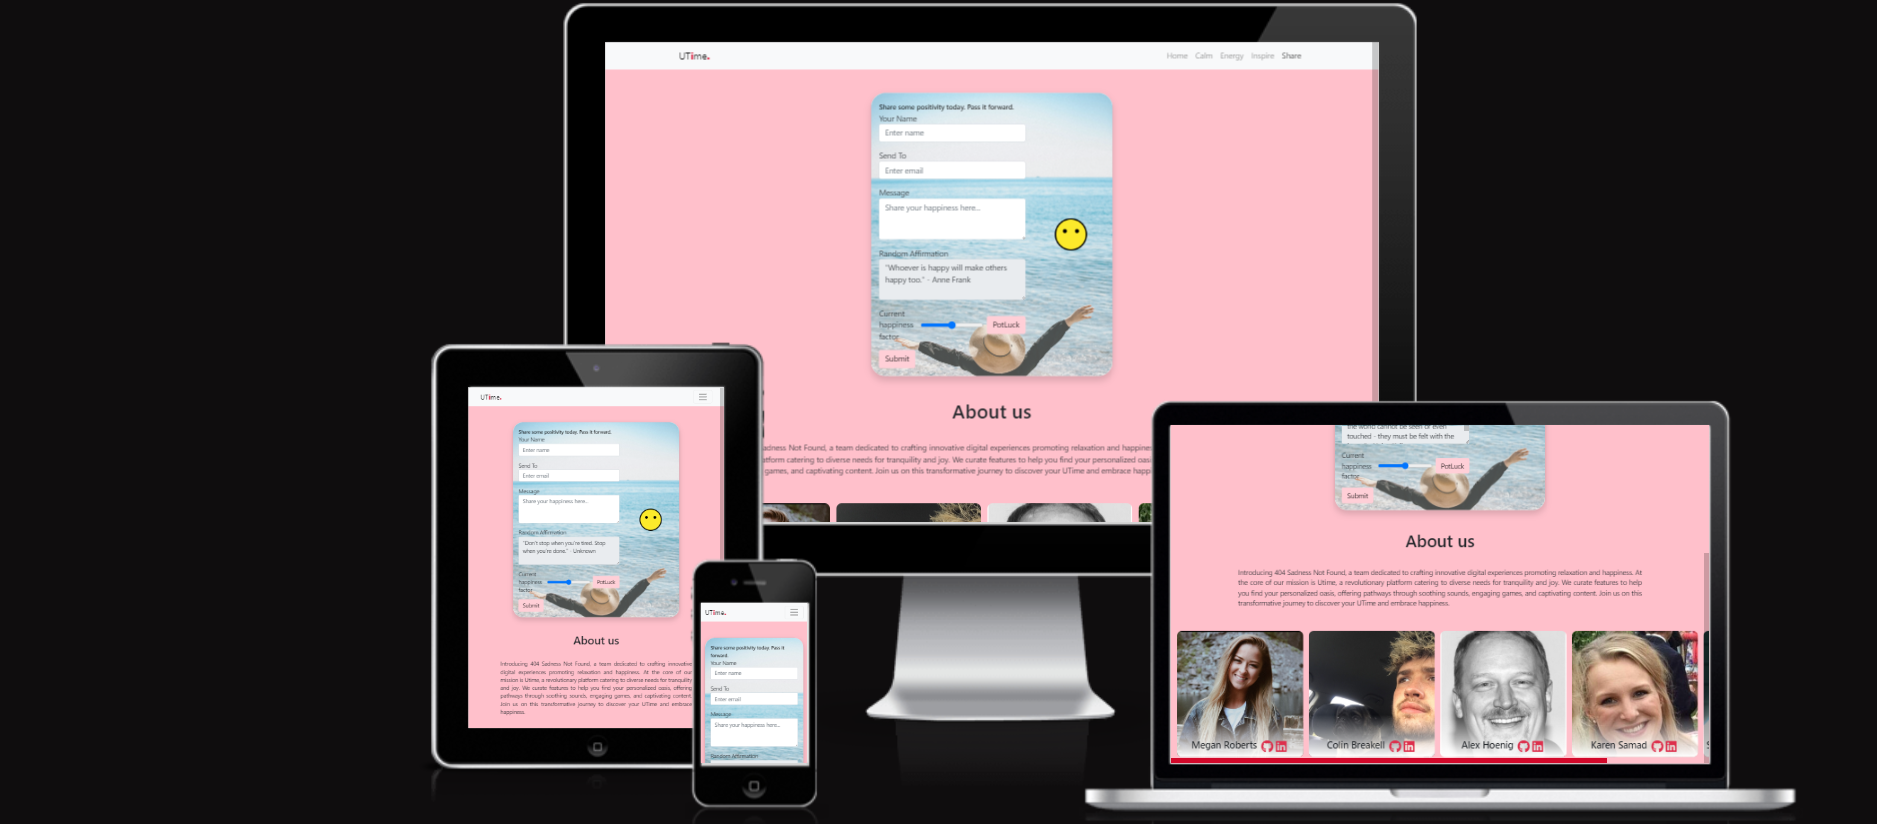
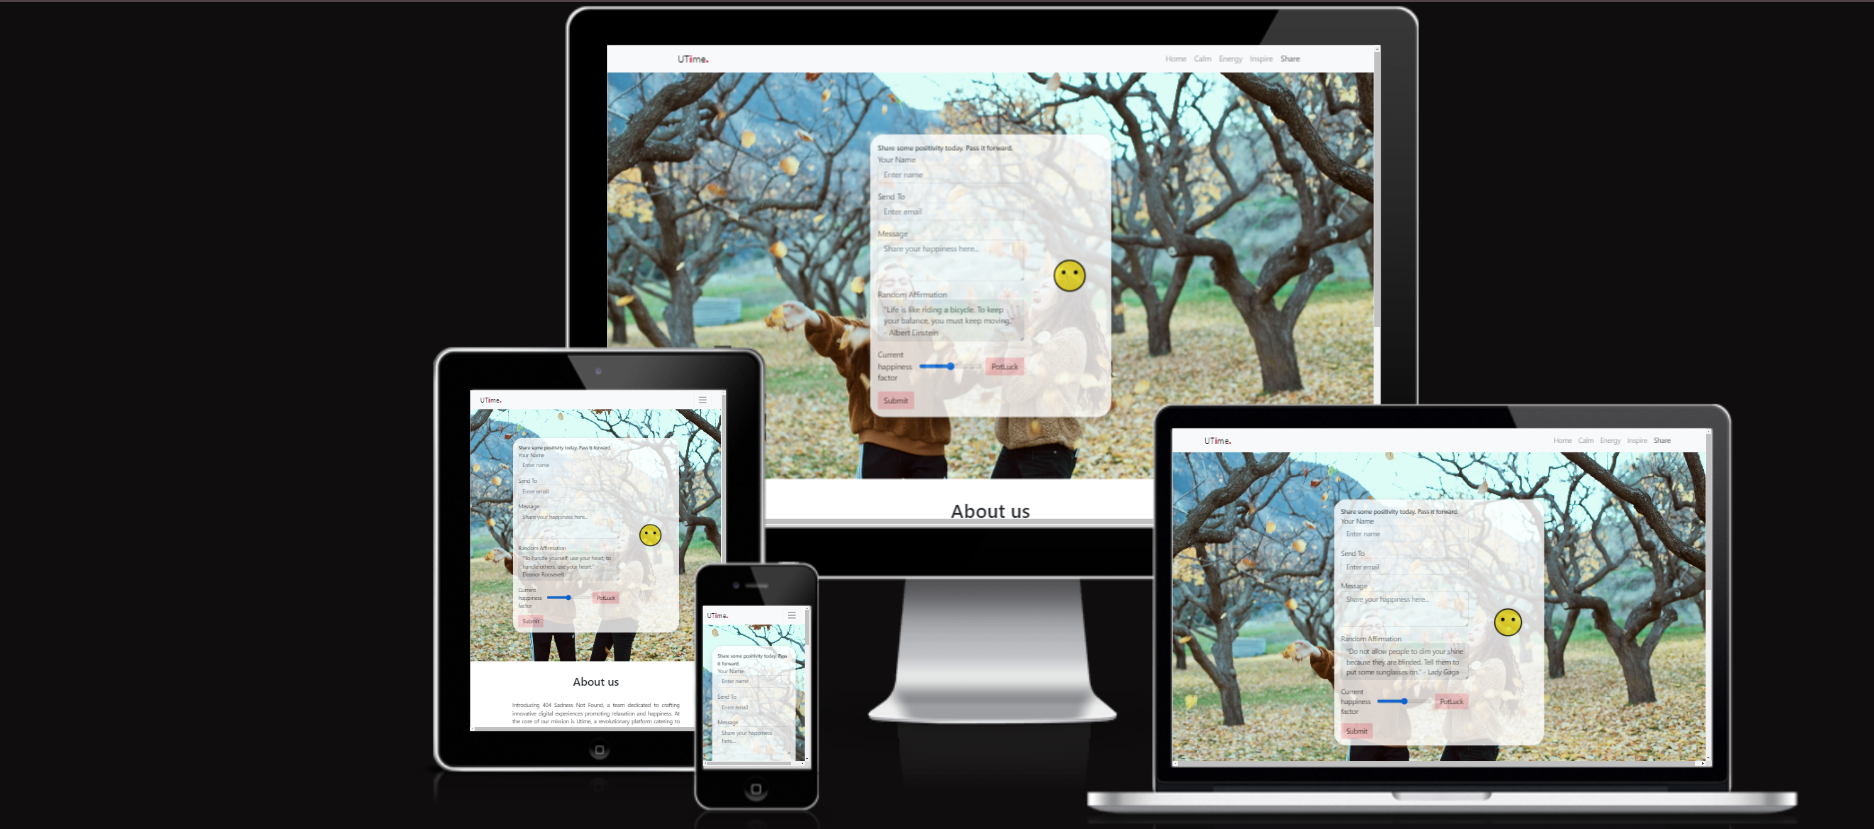
AmIresponsive images into README

diff --git a/README.md b/README.md
@@ -100,13 +100,13 @@ The following table outlines the content that should be implemented to make a fu
 
 - **Home Page**
 
-??ZZ???W?W??W  page on all devices <<><><<>>>
+ ![index.html am I responsive image](documentation/rm_images/screenshots/amiresponsive_home.png)
 
 - The home page explains to the user what the site is about and displays the different 'happy' activities users can choose from, including Games, Soundscape, or Memes. 
 
 - **Calm Page**
 
-??ZZ???W?W??W  page on all devices <<><><<>>>
+ ![gallery.html am I responsive image](documentation/rm_images/screenshots/amiresponsive_calm.png)
 
 - This page opens with the slogan 'Create a happy place.' It is a page where users can choose from a preselected sound to accompany an image of their choice (selected using the carousel of images). They can then sit back and enjoy the page, creating their own moment of calm in a busy, screen-filled day.
 
@@ -129,13 +129,13 @@ The following table outlines the content that should be implemented to make a fu
 
 - **Energy Page** 
 
-??ZZ???W?W??W  page on all devices <<><><<>>>
+ ![game.html am I responsive image](documentation/rm_images/screenshots/amiresponsive_energy.png)
 
 ??ZZ???W?W??W  content <<><><<>>>
 
 - **Inspire Page**
 
-??ZZ???W?W??W  page on all devices <<><><<>>>
+ ![affirmations.html am I responsive image](documentation/rm_images/screenshots/amiresponsive_inspire.png)
 
 ??ZZ???W?W??W  content <<><><<>>>
 
